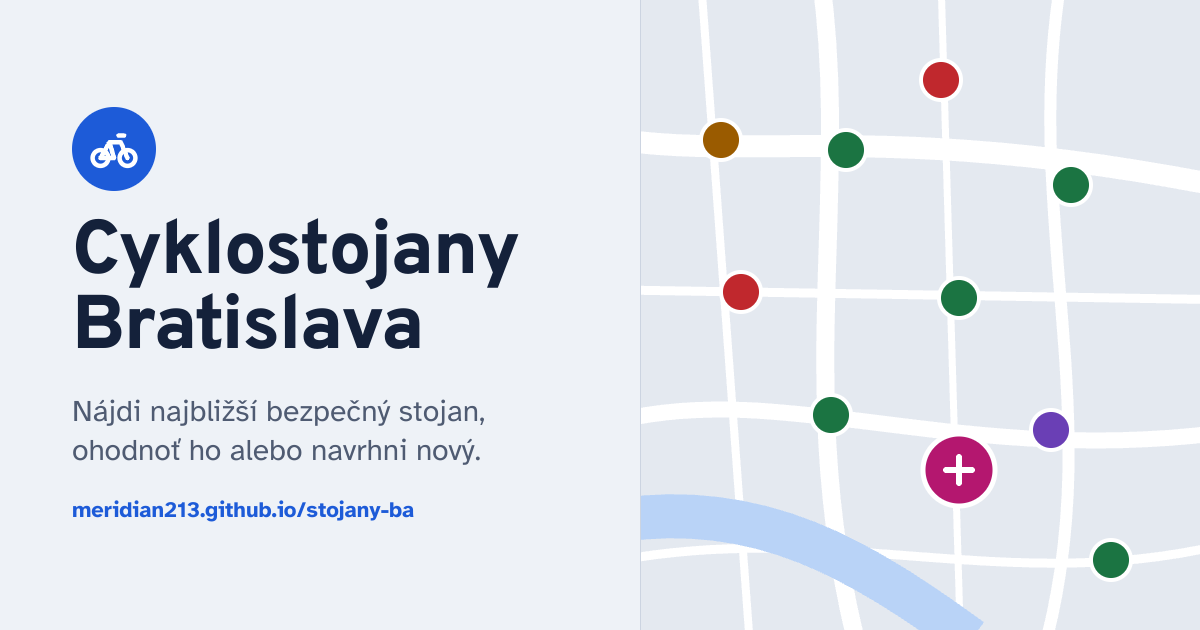
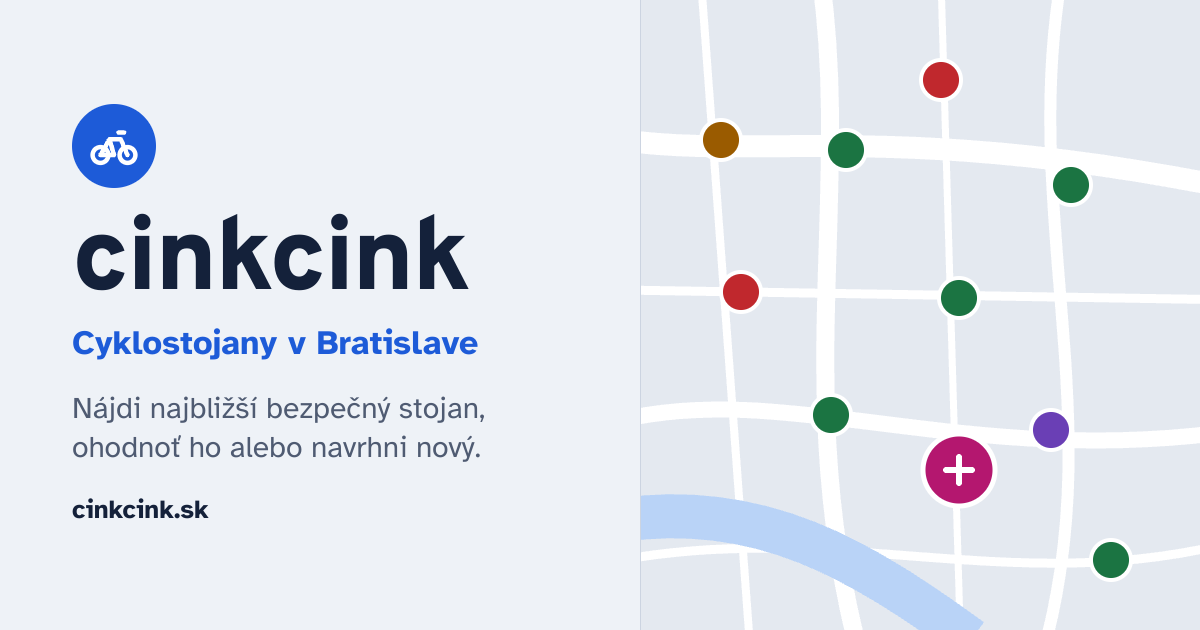
Nový názov cinkcink a doména cinkcink.sk
- názov „cinkcink“ s popisom „cyklostojany v Bratislave“ (mapa, prehľad, manifest, SW)
- náhľad odkazov: og:url a og:image na cinkcink.sk, nový obrázok og.png
- jemná hravosť v potvrdeniach („Cink! …“), text a hashtag v poznámke do OSM
- oprava: na úzkych telefónoch presahoval skrytý odkaz „Preskočiť mapu“
  a hlavička mohla roztiahnuť stránku do šírky
- README: nastavenie vlastnej domény

Claude-Session: https://claude.ai/code/session_011k6JijzgvG2a1BAJgWHBxN

diff --git a/site/index.html b/site/index.html
@@ -4,17 +4,18 @@
 <meta charset="utf-8">
 <meta name="viewport" content="width=device-width, initial-scale=1, viewport-fit=cover">
 <meta name="theme-color" content="#1d5bd8">
-<title>Cyklostojany Bratislava</title>
+<title>cinkcink – cyklostojany v Bratislave</title>
 <meta name="description" content="Mapa cyklostojanov v Bratislave. Nájdi najbližší bezpečný stojan, ohodnoť ho alebo navrhni nový.">
 <!-- náhľad odkazu v Messengeri, WhatsAppe a pod. -->
 <meta property="og:type" content="website">
-<meta property="og:site_name" content="Cyklostojany Bratislava">
-<meta property="og:title" content="Cyklostojany Bratislava">
+<meta property="og:site_name" content="cinkcink">
+<meta property="og:title" content="cinkcink – cyklostojany v Bratislave">
+<meta property="og:url" content="https://cinkcink.sk/">
 <meta property="og:description" content="Mapa cyklostojanov v Bratislave. Nájdi najbližší bezpečný stojan, ohodnoť ho alebo navrhni nový.">
-<meta property="og:image" content="https://meridian213.github.io/stojany-ba/og.png">
+<meta property="og:image" content="https://cinkcink.sk/og.png">
 <meta property="og:image:width" content="1200">
 <meta property="og:image:height" content="630">
-<meta property="og:image:alt" content="Cyklostojany Bratislava – mapa cyklostojanov">
+<meta property="og:image:alt" content="cinkcink – mapa cyklostojanov v Bratislave">
 <meta property="og:locale" content="sk_SK">
 <meta name="twitter:card" content="summary_large_image">
 <link rel="icon" href="icon.svg" type="image/svg+xml">
@@ -30,7 +31,7 @@
 <link rel="apple-touch-icon" href="apple-touch-icon.png">
 <meta name="apple-mobile-web-app-capable" content="yes">
 <meta name="mobile-web-app-capable" content="yes">
-<meta name="apple-mobile-web-app-title" content="Cyklostojany">
+<meta name="apple-mobile-web-app-title" content="cinkcink">
 <meta name="apple-mobile-web-app-status-bar-style" content="default">
 <link rel="preload" href="fonts/atkinson-hyperlegible-latin-400-normal.woff2" as="font" type="font/woff2" crossorigin>
 <link rel="stylesheet" href="fonts/fonts.css">
@@ -88,6 +89,7 @@ body {
   background: var(--bg); color: var(--fg);
   font: 16px/1.45 var(--f-body);
   display: grid; grid-template-rows: auto 1fr auto;
+  grid-template-columns: minmax(0, 1fr);   /* obsah nesmie roztiahnuť stránku do šírky */
   overflow: hidden;
   -webkit-tap-highlight-color: transparent;
 }
@@ -96,8 +98,8 @@ button, input, select, textarea { font: inherit; color: inherit; }
 a { color: var(--accent); }
 :focus-visible { outline: 3px solid var(--fg); outline-offset: 2px; border-radius: 6px; }
 .sr-only { position: absolute; width: 1px; height: 1px; overflow: hidden; clip: rect(0 0 0 0); white-space: nowrap; }
-.skip { position: absolute; left: 8px; top: -60px; z-index: 2000; background: var(--accent); color: var(--accent-fg); padding: 12px 16px; border-radius: 8px; font-weight: 700; }
-.skip:focus { top: calc(8px + env(safe-area-inset-top, 0px)); }
+.skip { position: absolute; left: 8px; right: 8px; top: 0; transform: translateY(-110%); z-index: 2000; background: var(--accent); color: var(--accent-fg); padding: 12px 16px; border-radius: 8px; font-weight: 700; }
+.skip:focus { transform: translateY(calc(8px + env(safe-area-inset-top, 0px))); }
 
 /* ---------- horná lišta ---------- */
 .topbar {
@@ -115,7 +117,10 @@ html.ios.standalone .topbar { padding-top: calc(32px + env(safe-area-inset-top, 
 /* ikonka bicykla obnoví stránku; dotyková plocha 48 px */
 a.brand-mark { position: relative; }
 a.brand-mark::after { content: ""; position: absolute; inset: -7px; }
-.brand h1 { font: 800 1.2rem/1.05 var(--f-display); letter-spacing: -.01em; margin: 0; padding-top: 3px; white-space: nowrap; overflow: hidden; text-overflow: ellipsis; }
+.brand h1 { font: 800 1.25rem/1.05 var(--f-display); letter-spacing: -.01em; margin: 0; padding-top: 3px; white-space: nowrap; display: flex; align-items: baseline; gap: 7px; min-width: 0; overflow: hidden; }
+/* popis vedľa názvu; na úzkom displeji sa skráti on, nie názov */
+.brand h1 .tagline { font: 700 .8rem/1.2 var(--f-body); letter-spacing: 0; color: var(--muted); overflow: hidden; text-overflow: ellipsis; min-width: 0; }
+@media (max-width: 380px) { .brand h1 { font-size: 1.15rem; gap: 5px; } .brand h1 .tagline { font-size: .72rem; } }
 .brand p { margin: 2px 0 0; font-size: .8rem; color: var(--muted); white-space: nowrap; overflow: hidden; text-overflow: ellipsis; }
 .brand > div { min-width: 0; }
 .delta { font-weight: 700; }
@@ -405,7 +410,7 @@ legend, .label { font-weight: 700; padding: 0; margin-bottom: 8px; }
       <svg viewBox="0 0 24 24" fill="none" stroke="#fff" stroke-width="2" stroke-linecap="round" stroke-linejoin="round" aria-hidden="true"><circle cx="6" cy="16" r="3.5"/><circle cx="18" cy="16" r="3.5"/><path d="M6 16l4-7h5l3 7M10 9l2 7h-6M14 6h2.5"/></svg>
     </a>
     <div>
-      <h1>Cyklostojany Bratislava</h1>
+      <h1>cinkcink <span class="tagline">cyklostojany v Bratislave</span></h1>
       <p id="dataInfo">Načítavam stojany…</p>
     </div>
   </div>
@@ -1253,7 +1258,7 @@ async function copyLink(url) {
   }
 }
 function bindShare(body, r) {
-  const url = rackLink(r), text = rackShareText(r), title = "Cyklostojany Bratislava";
+  const url = rackLink(r), text = rackShareText(r), title = "cinkcink – cyklostojany v Bratislave";
   const more = $("#shareMore", body), btn = $("#btnShare", body);
   const cb = $("#btnCopyLink", body);
   cb.onclick = async () => {
@@ -1396,7 +1401,7 @@ $("#rateForm").addEventListener("submit", async (e) => {
   try {
     await state.store.addRating(rating);
     await loadUserData(); render();
-    toast("Hodnotenie je uložené. Ďakujeme!");
+    toast("Cink! Hodnotenie je uložené. Ďakujeme.");
     openDetail(rateId);
   } catch (ex) {
     err.textContent = ex.code === "already" ? "Tento stojan si už hodnotil z tohto zariadenia." : "Hodnotenie sa nepodarilo uložiť. Skontroluj pripojenie a skús znova.";
@@ -1558,7 +1563,7 @@ $("#addForm").addEventListener("submit", async (e) => {
     const rack = await state.store.addRack(data, addPhotoBlob);
     await loadUserData(); render();
     $("#dlgAdd").close();
-    toast("Ďakujeme! Stojan čaká na schválenie správcom.");
+    toast("Cink! Ďakujeme, stojan čaká na schválenie správcom.");
     map.setView([rack.lat, rack.lon], 18);
   } catch (ex) {
     console.error(ex);
@@ -1631,7 +1636,7 @@ $("#demandForm").addEventListener("submit", async (e) => {
     const mine = myDemandPoints(); mine.push(demandPoint); prefs.set("myDemand", mine);
     await loadUserData(); render();
     $("#dlgDemand").close();
-    toast("Ďakujeme! Tvoj hlas je zapísaný.");
+    toast("Cink! Tvoj hlas je zapísaný. Ďakujeme.");
   } catch (ex) {
     console.error(ex);
     err.textContent = ex.code === "already" ? "Na tomto mieste si už hlasoval." : "Hlas sa nepodarilo uložiť. Skontroluj pripojenie a skús znova.";
@@ -1698,14 +1703,14 @@ function renderAdminBox() {
 const OSM_TYPE_TAG = { safe: "bicycle_parking=stands (stojan typu U/A)", shelter: "bicycle_parking=shed alebo lockers", informal: "bicycle_parking=informal", bad: "bicycle_parking=wall_loops (lámač kolies)" };
 function toReport() { return state.user.filter((r) => r.status === "approved" && r.osmConsent && !r.osmNoteId && !isNowInOsm(r)); }
 async function noteText(r) {
-  const lines = ["Nový stojan na bicykle, nahlásený cez aplikáciu Cyklostojany Bratislava a overený správcom.", ""];
+  const lines = ["Nový stojan na bicykle, nahlásený cez aplikáciu cinkcink (cinkcink.sk) a overený správcom.", ""];
   lines.push(`Typ: ${CATS[r.cat].label}` + (OSM_TYPE_TAG[r.cat] ? ` → ${OSM_TYPE_TAG[r.cat]}` : ""));
   if (r.capacity) lines.push(`Počet miest: ${r.capacity} → capacity=${r.capacity}`);
   if (r.covered != null) lines.push(`Zastrešený: ${r.covered ? "áno → covered=yes" : "nie → covered=no"}`);
   if (r.note) lines.push(`Poznámka navrhovateľa: ${r.note}`);
   const photo = await state.store.photoURL(r).catch(() => null);
   if (photo && /^https:/.test(photo)) lines.push(`Fotka: ${photo}`);
-  lines.push("", "#CyklostojanyBratislava");
+  lines.push("", "#cinkcink");
   return lines.join("\n");
 }
 async function createOsmNote(lat, lon, text) {
@@ -1810,7 +1815,7 @@ let installEvt = null;
 window.addEventListener("beforeinstallprompt", (e) => { e.preventDefault(); installEvt = e; updateInstallUI(); });
 window.addEventListener("appinstalled", () => {
   installEvt = null; prefs.set("installed", true); $("#installNote").hidden = true; updateInstallUI();
-  toast("Hotovo. Cyklostojany nájdeš na ploche telefónu.");
+  toast("Hotovo. Aplikáciu cinkcink nájdeš na ploche telefónu.");
 });
 // ponúkame len tam, kde sa to dá: Android/Chrome cez systémové okno, iPhone a ostatné cez návod
 function canInstall() { return !isStandalone() && !prefs.get("installed", false) && (!!installEvt || isIOS || isAndroid); }

diff --git a/site/prehlad.html b/site/prehlad.html
@@ -4,13 +4,13 @@
 <meta charset="utf-8">
 <meta name="viewport" content="width=device-width, initial-scale=1, viewport-fit=cover">
 <meta name="theme-color" content="#1d5bd8">
-<title>Cyklostojany Bratislava – prehľad pre mesto</title>
+<title>cinkcink – prehľad cyklostojanov pre mesto</title>
 <meta name="description" content="Koľko cyklostojanov má Bratislava a jej mestské časti, aké sú a kde ľudia hlásia, že chýbajú.">
 <meta property="og:type" content="website">
-<meta property="og:site_name" content="Cyklostojany Bratislava">
+<meta property="og:site_name" content="cinkcink">
 <meta property="og:title" content="Kde v Bratislave chýbajú cyklostojany">
 <meta property="og:description" content="Koľko cyklostojanov má Bratislava a jej mestské časti, aké sú a kde ľudia hlásia, že chýbajú.">
-<meta property="og:image" content="https://meridian213.github.io/stojany-ba/og.png">
+<meta property="og:image" content="https://cinkcink.sk/og.png">
 <meta property="og:image:width" content="1200">
 <meta property="og:image:height" content="630">
 <meta property="og:locale" content="sk_SK">
@@ -81,7 +81,8 @@ header.top .wrap { display: flex; align-items: center; gap: 12px; flex-wrap: wra
 .brand { display: flex; align-items: center; gap: 10px; flex: 1; min-width: 0; text-decoration: none; color: var(--fg); }
 .brand-mark { width: 34px; height: 34px; border-radius: 50%; background: var(--accent); display: grid; place-items: center; flex: none; }
 .brand-mark svg { width: 22px; height: 22px; }
-.brand strong { font: 800 1.15rem/1.1 var(--f-display); padding-top: 3px; }
+.brand strong { font: 800 1.2rem/1.1 var(--f-display); padding-top: 3px; white-space: nowrap; overflow: hidden; text-overflow: ellipsis; }
+.brand .tagline { font: 700 .8rem/1.2 var(--f-body); color: var(--muted); margin-left: 4px; }
 .btn {
   min-height: 44px; padding: 8px 16px; border-radius: var(--r); border: 1px solid var(--line); background: var(--surface); color: var(--fg);
   font: 700 .95rem/1.2 var(--f-body); cursor: pointer; display: inline-flex; align-items: center; gap: 8px; text-decoration: none;
@@ -181,7 +182,7 @@ footer { color: var(--muted); font-size: .85rem; padding-block: 0 32px; }
   <div class="wrap">
     <a class="brand" href="index.html">
       <span class="brand-mark" aria-hidden="true"><svg viewBox="0 0 24 24" fill="none" stroke="#fff" stroke-width="2" stroke-linecap="round" stroke-linejoin="round"><circle cx="6" cy="16" r="3.5"/><circle cx="18" cy="16" r="3.5"/><path d="M6 16l4-7h5l3 7M10 9l2 7h-6M14 6h2.5"/></svg></span>
-      <strong>Cyklostojany Bratislava</strong>
+      <strong>cinkcink <span class="tagline">cyklostojany v Bratislave</span></strong>
     </a>
     <div class="actions" style="display:flex;gap:8px;flex-wrap:wrap">
       <a class="btn" href="index.html">Späť na mapu</a>
@@ -267,7 +268,7 @@ footer { color: var(--muted); font-size: .85rem; padding-block: 0 32px; }
     <section aria-labelledby="dlTitle">
       <div class="section-head">
         <h2 id="dlTitle">Dáta na stiahnutie</h2>
-        <p>Otvorené dáta pod licenciou ODbL. Pri použití uveď „© prispievatelia OpenStreetMap a používatelia aplikácie Cyklostojany Bratislava“. CSV sa otvorí v Exceli (oddeľovač bodkočiarka).</p>
+        <p>Otvorené dáta pod licenciou ODbL. Pri použití uveď „© prispievatelia OpenStreetMap a používatelia aplikácie cinkcink (cinkcink.sk)“. CSV sa otvorí v Exceli (oddeľovač bodkočiarka).</p>
       </div>
       <div class="downloads">
         <button class="btn" type="button" data-dl="racks-csv">Stojany (CSV)</button>
@@ -522,7 +523,7 @@ function save(name, text, type) {
   const a = document.createElement("a"); a.href = URL.createObjectURL(new Blob([text], { type })); a.download = name;
   document.body.appendChild(a); a.click(); setTimeout(() => { URL.revokeObjectURL(a.href); a.remove(); }, 1000);
 }
-const LICENSE = "© prispievatelia OpenStreetMap a používatelia aplikácie Cyklostojany Bratislava, ODbL";
+const LICENSE = "© prispievatelia OpenStreetMap a používatelia aplikácie cinkcink (cinkcink.sk), ODbL";
 function download(kind) {
   const day = (D.fetched || new Date().toISOString()).slice(0, 10);
   if (kind === "racks-csv") save(`cyklostojany-bratislava-${day}.csv`, csv([["zdroj", "id", "mestska_cast", "kategoria", "typ_osm", "kapacita", "zastreseny", "pristup", "nazov", "lat", "lon", "hodnotenie", "pocet_hodnoteni"],

diff --git a/site/sw.js b/site/sw.js
@@ -2,7 +2,7 @@
 // Nič neukladá do vyrovnávacej pamäte, aby sa vždy zobrazovala najnovšia verzia.
 // Bez internetu namiesto chyby prehliadača ukáže zrozumiteľnú správu.
 const OFFLINE = `<!doctype html><html lang="sk"><head><meta charset="utf-8"><meta name="viewport" content="width=device-width,initial-scale=1">
-<title>Cyklostojany Bratislava – bez internetu</title><style>
+<title>cinkcink – bez internetu</title><style>
 body{margin:0;min-height:100vh;display:grid;place-items:center;font:17px/1.5 system-ui,sans-serif;background:#eef2f7;color:#14213a;padding:24px;box-sizing:border-box;text-align:center}
 @media (prefers-color-scheme:dark){body{background:#0e1520;color:#e9eef7}}
 h1{font-size:1.4rem;margin:0 0 8px}p{margin:0 0 20px;max-width:28ch}

diff --git a/README.md b/README.md
@@ -1,4 +1,6 @@
-# Cyklostojany Bratislava
+# cinkcink – cyklostojany v Bratislave
+
+Adresa: **https://cinkcink.sk** (predtým meridian213.github.io/stojany-ba, presmerúva sa).
 
 Mobilná mapa cyklostojanov v Bratislave. Stojany sa každú noc automaticky sťahujú z OpenStreetMap, používatelia ich môžu hodnotiť a navrhovať nové, ktoré schvaľuje správca.
 
@@ -32,6 +34,21 @@ Mobilná mapa cyklostojanov v Bratislave. Stojany sa každú noc automaticky sť
 
 Odteraz sa stránka aktualizuje sama: každú noc, a vždy keď v repozitári niečo zmeníš.
 
+## Vlastná doména (cinkcink.sk)
+
+Stránka beží na GitHub Pages s vlastnou doménou. Nastavenie (robí sa raz):
+
+1. **Overenie domény** (ochrana pred zneužitím): profil → *Settings → Pages → Add a domain* → `cinkcink.sk`, pridať TXT záznam, ktorý GitHub ukáže, a *Verify*.
+2. **Doména v repozitári**: *Settings → Pages → Custom domain* → `cinkcink.sk`. Súbor CNAME netreba, pri zverejňovaní cez GitHub Actions sa nepoužíva.
+3. **DNS u registrátora**:
+   - A `@` → 185.199.108.153, 185.199.109.153, 185.199.110.153, 185.199.111.153
+   - AAAA `@` → 2606:50c0:8000::153, 2606:50c0:8001::153, 2606:50c0:8002::153, 2606:50c0:8003::153
+   - CNAME `www` → meridian213.github.io
+4. Po prejavení DNS zapnúť **Enforce HTTPS**.
+5. V Supabase *Authentication → URL Configuration*: Site URL a Redirect URL `https://cinkcink.sk/`.
+
+Adresa je natvrdo zapísaná len v náhľade odkazov (`og:image`, `og:url` v `site/index.html` a `site/prehlad.html`). Všetko ostatné používa relatívne cesty.
+
 ## Napojenie Supabase (hodnotenia, návrhy, fotky)
 
 Bez tohto kroku stránka funguje, ale hodnotenia a návrhy sa ukladajú len v telefóne používateľa.
@@ -43,7 +60,7 @@ Bez tohto kroku stránka funguje, ale hodnotenia a návrhy sa ukladajú len v te
    insert into public.admins (email) values ('tvoj@email.sk');
    ```
 4. **Povoľ prihlásenie zo stránky**: *Authentication → URL Configuration*
-   - *Site URL*: `https://<tvoje-meno>.github.io/stojany-ba/`
+   - *Site URL*: `https://cinkcink.sk/` (alebo `https://<tvoje-meno>.github.io/stojany-ba/` bez vlastnej domény)
    - *Redirect URLs*: tá istá adresa
 5. **Prepoj stránku**: *Project Settings → API* skopíruj **Project URL** a verejný kľúč **Publishable key** (`sb_publishable_…`, v starších projektoch **anon public**). V GitHube otvor `site/config.js`, klikni na ceruzku (Edit) a vyplň:
    ```js
